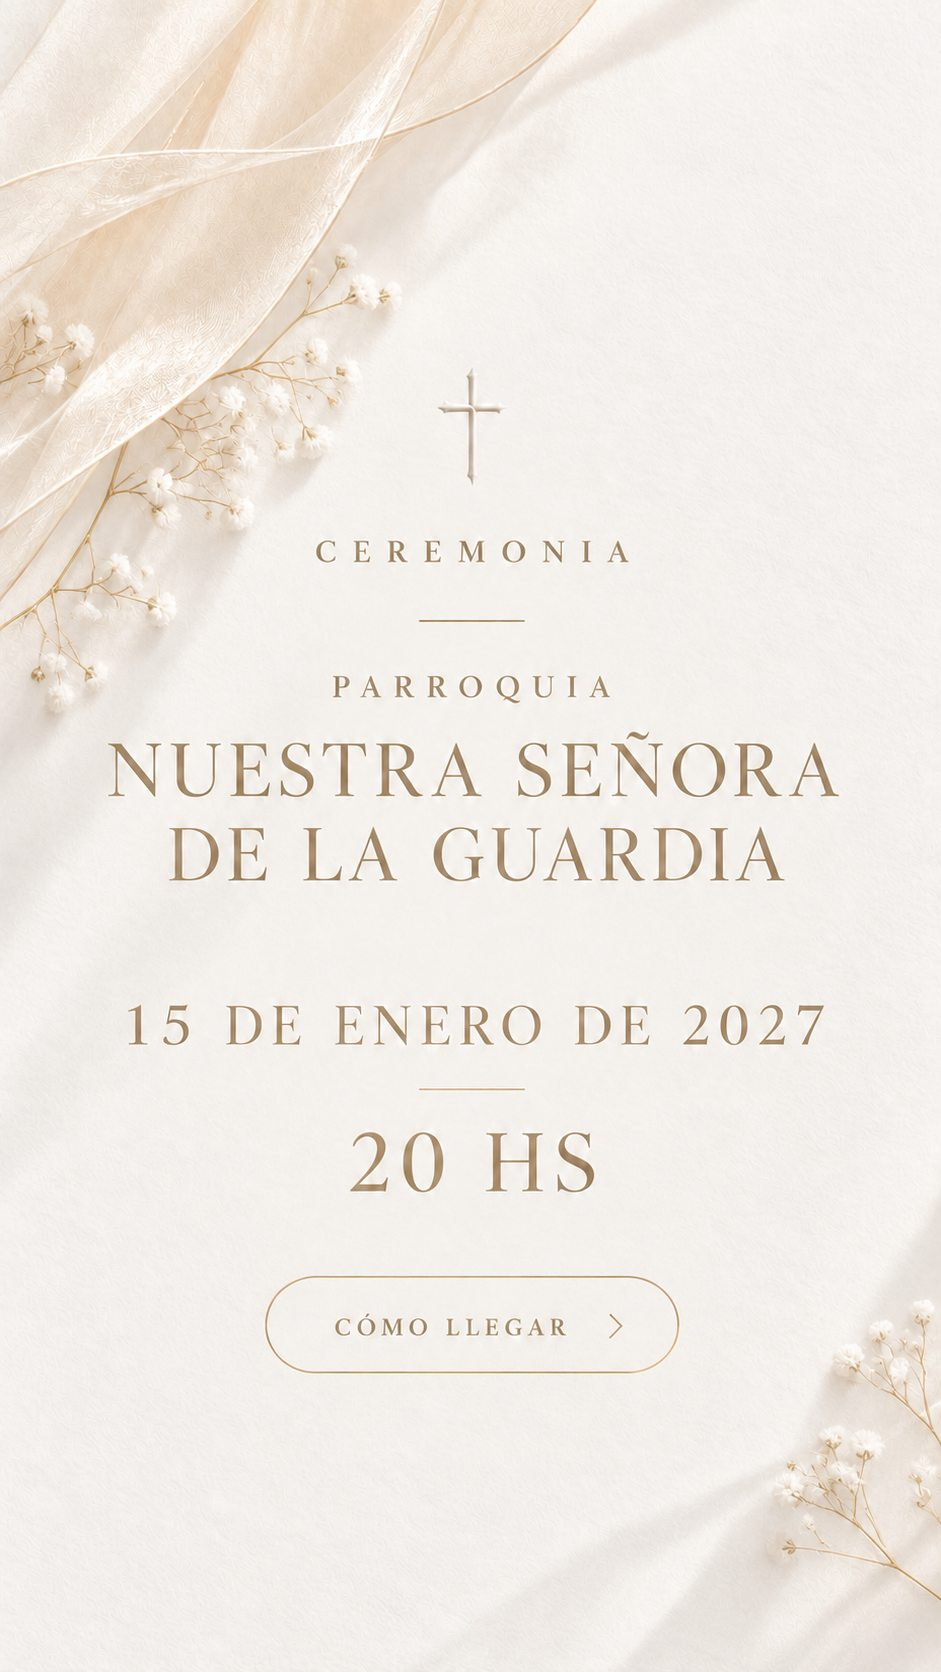
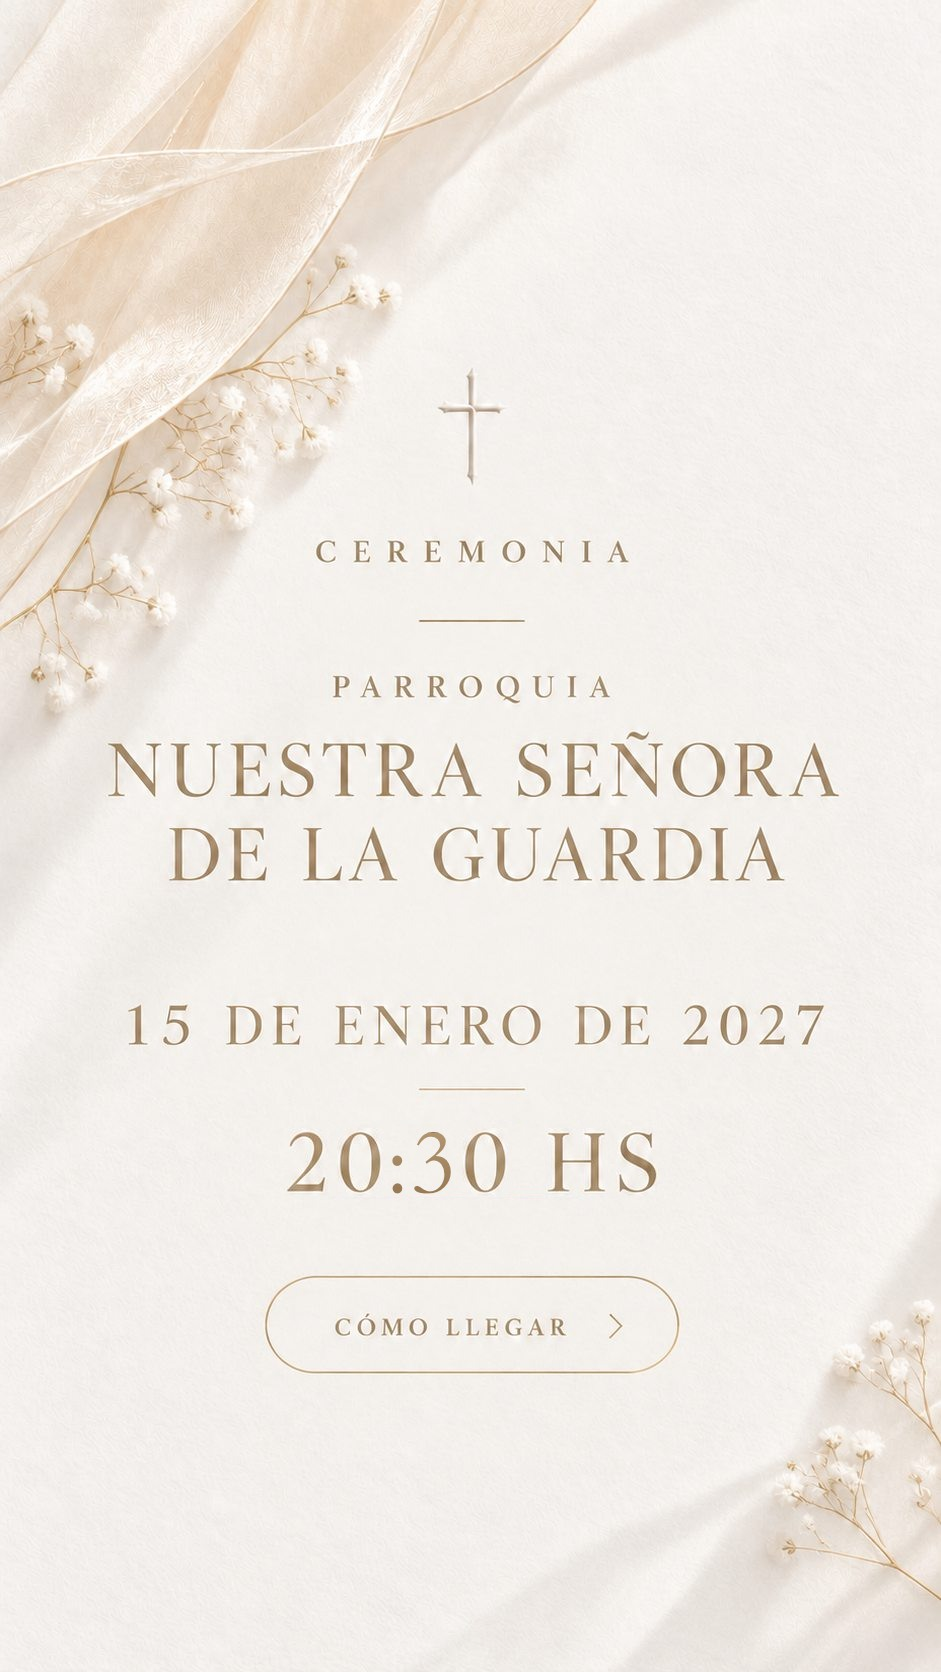
Horario de la ceremonia: 20:30 hs

Changed region(s): [[0.3082, 0.6531, 0.7088, 0.7153]]

diff --git a/index.html b/index.html
@@ -461,7 +461,7 @@
 
   <!-- 4. Ceremonia -->
   <section class="pieza funde">
-    <img src="assets/04-ceremonia.jpg" alt="Ceremonia · Parroquia Nuestra Señora de la Guardia · 15 de enero de 2027 · 20 hs" loading="lazy">
+    <img src="assets/04-ceremonia.jpg" alt="Ceremonia · Parroquia Nuestra Señora de la Guardia · 15 de enero de 2027 · 20:30 hs" loading="lazy">
     <a class="hot" data-link="ceremonia" target="_blank" rel="noopener" aria-label="Cómo llegar a la ceremonia"
        style="left:28.16%; top:76.32%; width:43.89%; height:5.8%"></a>
   </section>
@@ -538,7 +538,7 @@
 
 <script>
   // ===== Configuración =====
-  const EVENTO = new Date('2027-01-15T20:00:00-03:00');
+  const EVENTO = new Date('2027-01-15T20:30:00-03:00');
   const LINKS = {
     ceremonia:   'https://www.google.com/maps/search/?api=1&query=' + encodeURIComponent('Parroquia Nuestra Señora de la Guardia, Victoria, San Fernando, Buenos Aires'),
     celebracion: 'https://www.google.com/maps/search/?api=1&query=' + encodeURIComponent('Palacio Sans Souci, Paz 705, Victoria, Buenos Aires'),
